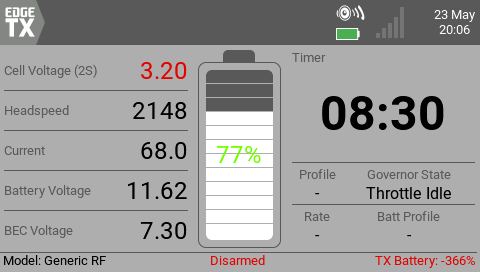
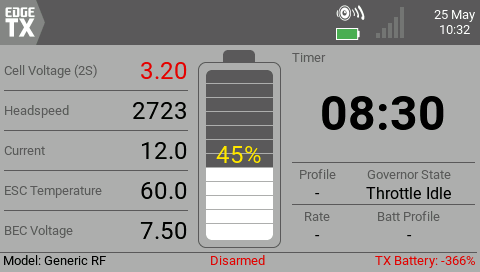
docs: update readme and screenshots

diff --git a/README.md b/README.md
@@ -11,6 +11,7 @@ HeliDash is focused on a clean in-flight dashboard for helicopter-specific telem
 - Rotorflight-focused helicopter telemetry layout
 - Live flight dashboard plus flight statistics view
 - Headspeed, governor state, profile/rate, and battery-profile visibility
+- Selectable cell-voltage or battery-voltage display, with ESC temperature shown in both flight and statistics views
 - Battery and cell monitoring with audio/haptic low-battery callouts
 - EdgeTX simulator-friendly development and layout testing
 - RFTools-backed RF2 integration for richer Rotorflight data and flight statistics
@@ -22,6 +23,8 @@ HeliDash is focused on a clean in-flight dashboard for helicopter-specific telem
   - Setup instructions: [Rotorflight Lua Scripts](https://github.com/rotorflight/rotorflight-lua-scripts)
 
 RFTools is not only used for RF-backed data. HeliDash also relies on the RFTools/RF2 connection state to switch automatically between the Flight UI and the Flight Statistics UI.
+
+If RFTools becomes available after HeliDash is already running, HeliDash will attach to it on the next service cycle and pick up the current RF state.
 
 Without RFTools, HeliDash can still show basic direct telemetry, but RF-backed data, automatic state-driven view switching, and battery-profile integration will be limited or unavailable.
 
@@ -50,6 +53,7 @@ set telemetry_sensors = 3,4,5,6,7,8,43,50,52,60,90,91,93,95,96,97,0,0,0,0,0,0,0,
 - `CalloutInt`: battery callout interval in seconds, from 1 to 60
 - `Haptic`: vibrate on battery callouts
 - `StatsViewMode`: when to show the statistics page: `Never`, `On disarmed`, or `On disconnected`
+- `VoltageDisplay`: show voltage as `Cell voltage` or `Battery voltage`
 
 ## Preview
 ### Default EdgeTX Theme
